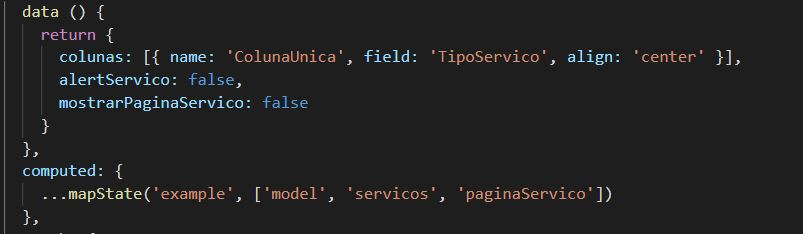
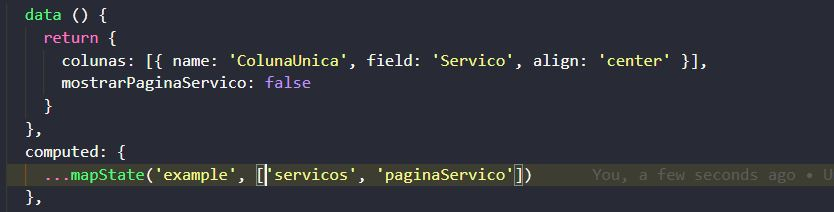
atualizando imagens

Changed region(s): [[0.0, 0.0, 1.0, 1.0]]

diff --git a/src/components/TabelaServicos.vue b/src/components/TabelaServicos.vue
@@ -27,13 +27,12 @@ import { mapState, mapActions, mapMutations } from 'vuex'
 export default {
   data () {
     return {
-      colunas: [{ name: 'ColunaUnica', field: 'TipoServico', align: 'center' }],
-      alertServico: false,
+      colunas: [{ name: 'ColunaUnica', field: 'Servico', align: 'center' }],
       mostrarPaginaServico: false
     }
   },
   computed: {
-    ...mapState('example', ['model', 'servicos', 'paginaServico'])
+    ...mapState('example', ['servicos', 'paginaServico'])
   },
   watch: {
     paginaServico (newValue, oldValue) {
